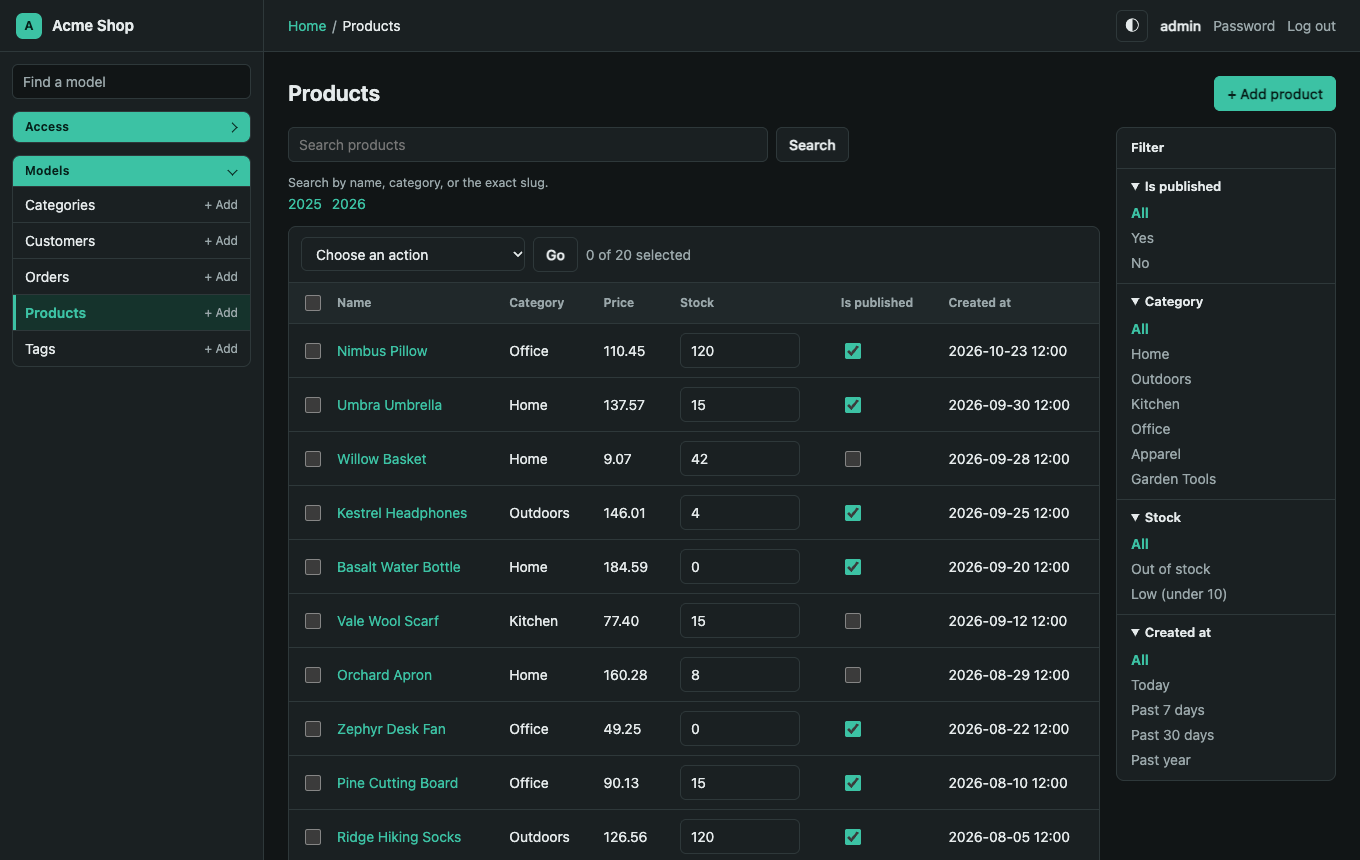
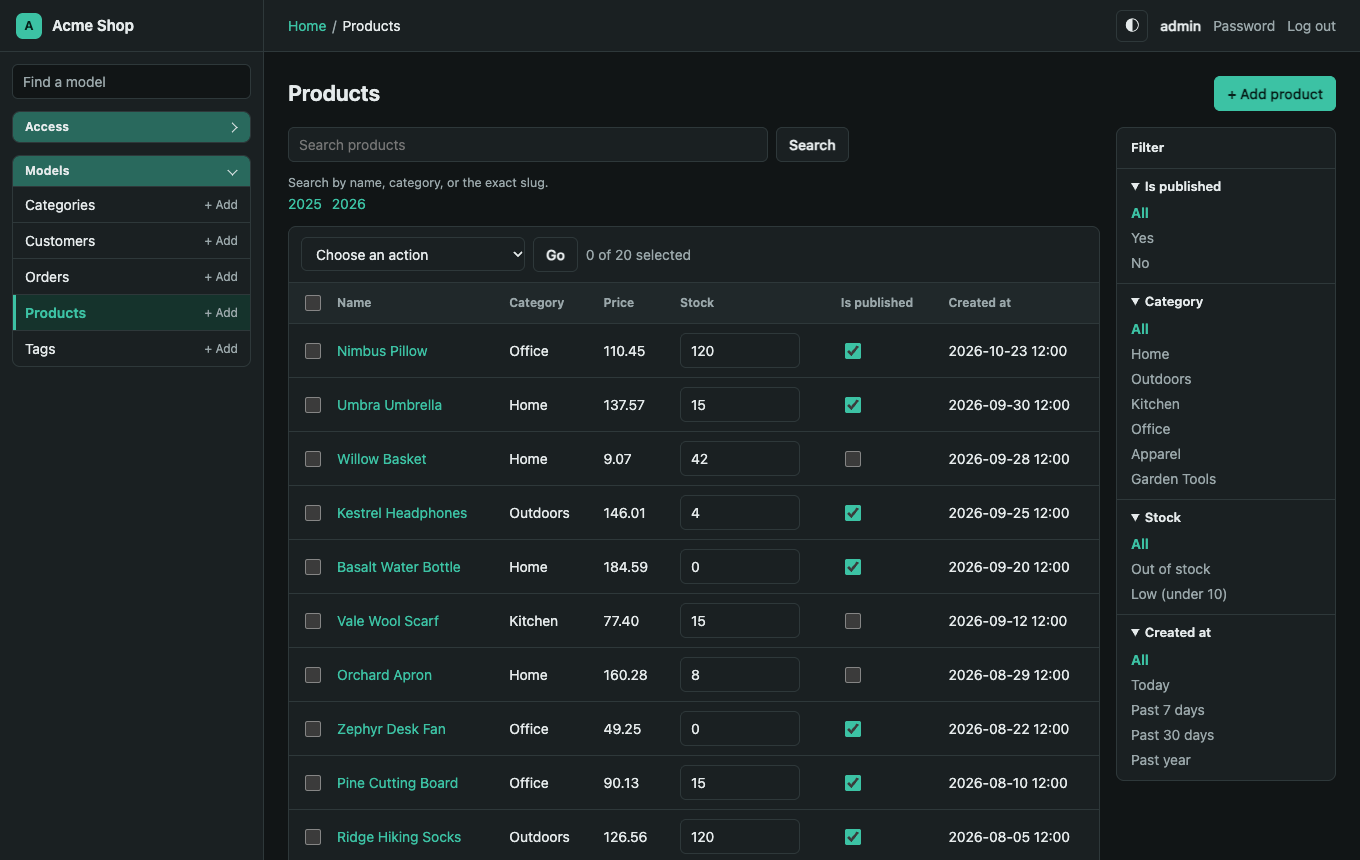
style: soften the sidebar headers in dark mode

Changed region(s): [[0.0, 0.1209, 0.1853, 0.2419]]

diff --git a/src/fastapi_panel/static/panel.css b/src/fastapi_panel/static/panel.css
@@ -3,6 +3,9 @@
   --accent-hover: #0a5a4a;
   --accent-soft: #e4f3ef;
   --on-accent: #ffffff;
+  --nav-head: var(--accent);
+  --nav-head-hover: var(--accent-hover);
+  --on-nav-head: var(--on-accent);
   --bg: #f5f6f7;
   --surface: #ffffff;
   --surface-alt: #f9fafb;
@@ -25,6 +28,9 @@
   --accent-hover: #5dd2b8;
   --accent-soft: #15332c;
   --on-accent: #06211b;
+  --nav-head: color-mix(in srgb, var(--accent) 45%, var(--surface));
+  --nav-head-hover: color-mix(in srgb, var(--accent) 55%, var(--surface));
+  --on-nav-head: var(--text);
   --bg: #111516;
   --surface: #1a2022;
   --surface-alt: #20282a;
@@ -46,6 +52,9 @@
     --accent-hover: #5dd2b8;
     --accent-soft: #15332c;
     --on-accent: #06211b;
+    --nav-head: color-mix(in srgb, var(--accent) 45%, var(--surface));
+    --nav-head-hover: color-mix(in srgb, var(--accent) 55%, var(--surface));
+    --on-nav-head: var(--text);
     --bg: #111516;
     --surface: #1a2022;
     --surface-alt: #20282a;
@@ -107,7 +116,7 @@ ul { list-style: none; margin: 0; padding: 0; }
 .sidebar .nav-search::placeholder { color: var(--muted); }
 .nav-group { margin-bottom: 12px; border: 1px solid var(--border); border-radius: var(--radius); overflow: hidden; }
 .nav-title {
-  padding: 6px 12px; background: var(--accent); color: var(--on-accent);
+  padding: 6px 12px; background: var(--nav-head); color: var(--on-nav-head);
   font-size: 12px; font-weight: 650; letter-spacing: .02em;
   display: flex; align-items: center; justify-content: space-between; cursor: pointer; list-style: none;
 }
@@ -117,8 +126,8 @@ ul { list-style: none; margin: 0; padding: 0; }
   border: solid currentColor; border-width: 0 1.5px 1.5px 0; transform: translateY(-1px) rotate(45deg);
 }
 .nav-group:not([open]) > .nav-title::after { transform: rotate(-45deg); }
-.nav-title:hover { background: var(--accent-hover); }
-.nav-title:focus-visible { outline-color: var(--on-accent); outline-offset: -3px; }
+.nav-title:hover { background: var(--nav-head-hover); }
+.nav-title:focus-visible { outline-color: var(--on-nav-head); outline-offset: -3px; }
 .nav-item { display: flex; align-items: center; border-top: 1px solid var(--border); }
 .nav-item a { padding: 7px 12px; color: var(--text); }
 .nav-item > a:first-child { flex: 1; min-width: 0; overflow-wrap: anywhere; }
